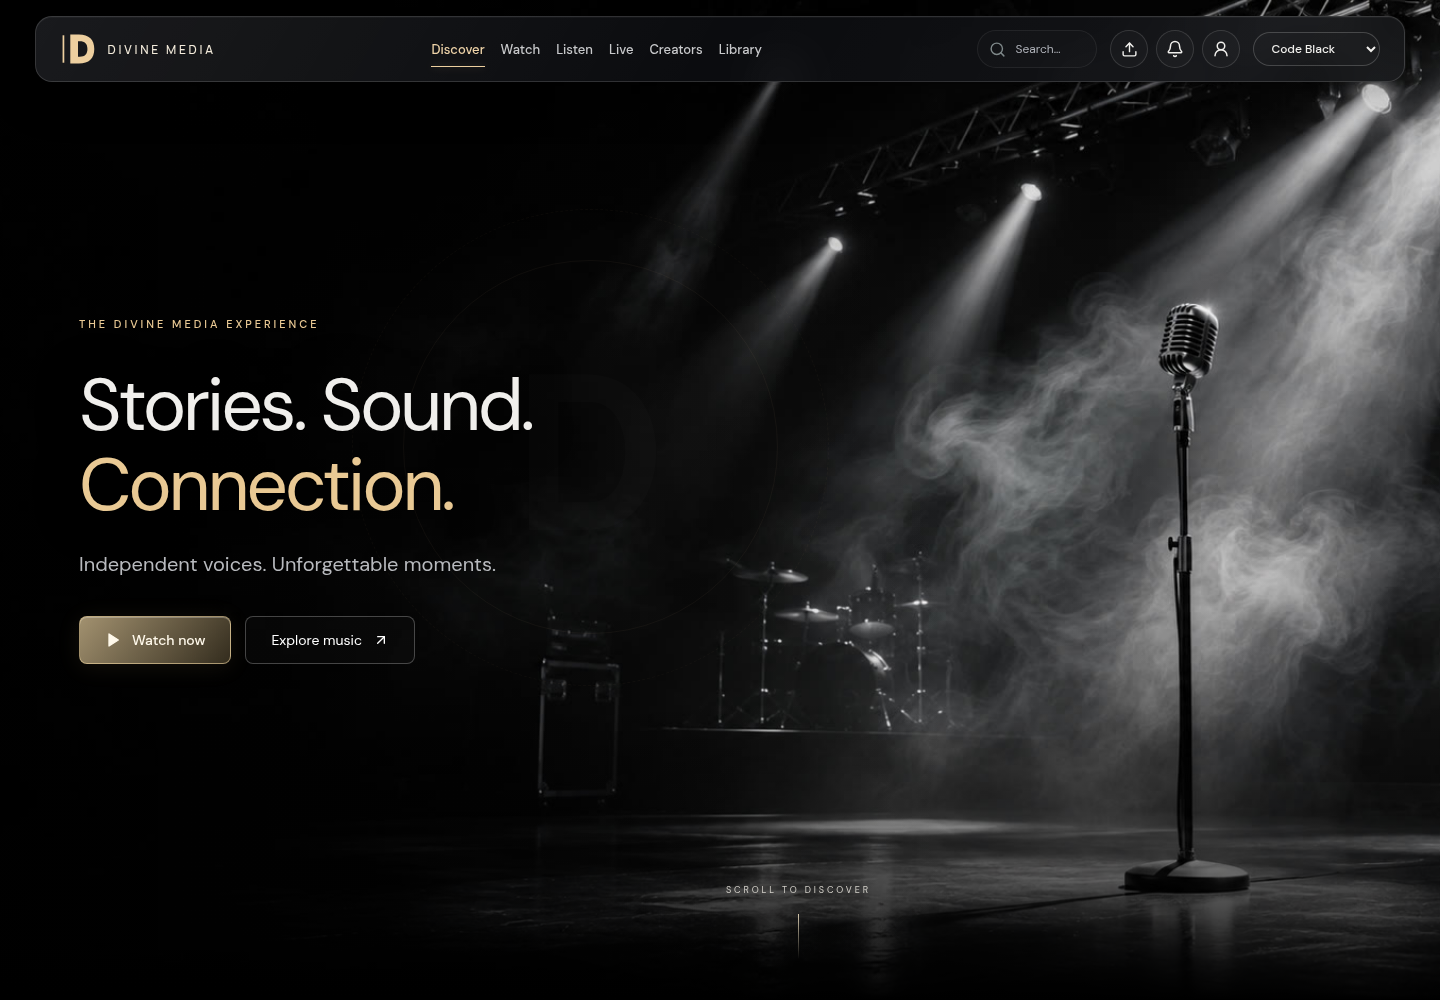
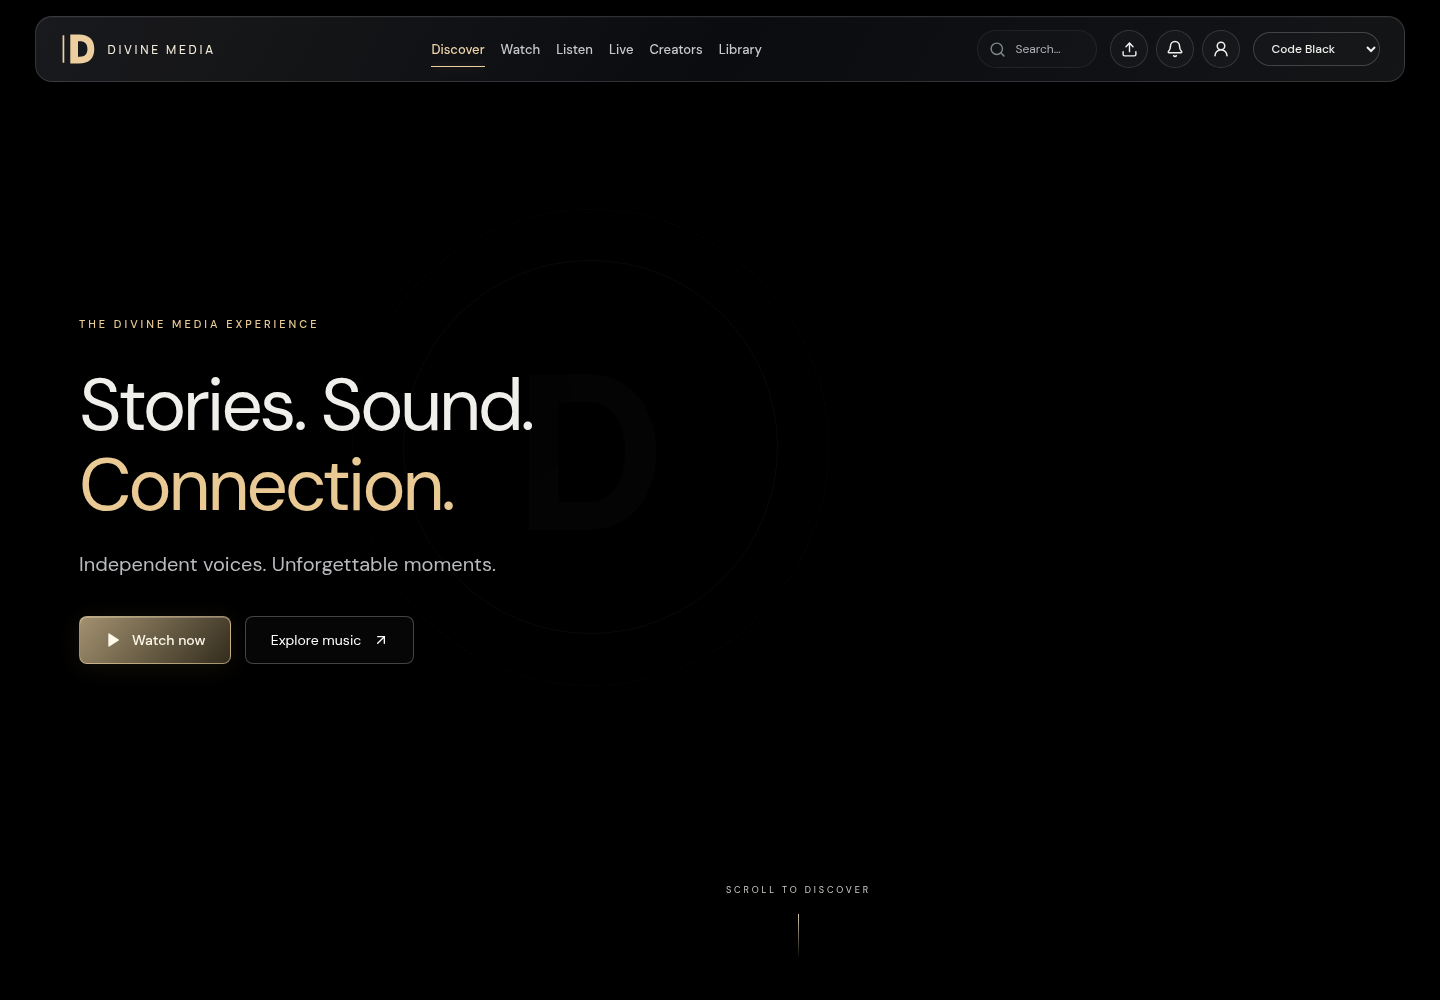
docs: record native feature preview and production release status

diff --git a/README.md b/README.md
@@ -91,7 +91,7 @@ See the [AVideo administrator manual](https://github.com/WWBN/AVideo/wiki/Admin-
 
 | Version / milestone | Status and scope |
 | --- | --- |
-| **3.3 — In development** | Branded entrance, matching login, shared creator workspace, audio discovery/player improvements, and the `divinemedia.us` domain structure are deployed from feature branches. Production-branch promotion remains a separate approval step; this is not a completed 3.3 release. |
+| **3.3 — Viewer foundation released** | Canonical domains, audio/player fixes, branded media entrance and creator workspace, plus selectable Default and Code Black viewing themes. Production promotion was approved and completed through PR #11. Broader native account/plugin integration continues separately in PR #12. |
 | **3.1 — Development baseline, November 1, 2026** | Established `dev/divine-media-3.1` from the existing Divine Media frontend work. Upload, thumbnail display, and playback were confirmed working as the baseline for the Watch redesign. |
 | **2.x — Earlier frontend foundation** | Existing Watch development on `divine-media-2`, carried forward into the 3.1 integration branch. |
 
@@ -103,6 +103,9 @@ Current work and implementation details:
 - [Branded entrance and login — PR #5](https://github.com/jarredmoore/divinemedia/pull/5)
 - [Creator workspace — PR #6](https://github.com/jarredmoore/divinemedia/pull/6)
 - [Canonical domains and integrated 3.3 foundation — PR #8](https://github.com/jarredmoore/divinemedia/pull/8)
+- [Code Black viewing theme — PR #10](https://github.com/jarredmoore/divinemedia/pull/10)
+- [Approved production release — PR #11](https://github.com/jarredmoore/divinemedia/pull/11)
+- [Native feature activation and free/paid plugin audit — PR #12](https://github.com/jarredmoore/divinemedia/pull/12)
 
 Project references on the integration branch: [Project charter](https://github.com/jarredmoore/divinemedia/blob/dev/divine-media-3.1/PROJECT.md), [experience direction](https://github.com/jarredmoore/divinemedia/blob/dev/divine-media-3.1/EXPERIENCE_DIRECTION.md), and [changelog](https://github.com/jarredmoore/divinemedia/blob/dev/divine-media-3.1/CHANGELOG.md). These documents describe their recorded baseline; the linked pull requests contain subsequent work.
 

diff --git a/docs/DIVINE-MEDIA-NATIVE-FEATURES.md b/docs/DIVINE-MEDIA-NATIVE-FEATURES.md
@@ -1,5 +1,9 @@
 # Native AVideo features and frontend activation
 
+[Open the working feature preview](https://6af0e7c0c7c99c2a27543abe--mediaproduction.netlify.app/?theme=code-black) · [Feature PR #12](https://github.com/jarredmoore/divinemedia/pull/12) · [Deployed browser evidence](NATIVE-FRONTEND-DEPLOYED-VERIFICATION.json)
+
+Frontend source for the draft is commit `f48a6cae`; later commits update documentation and evidence.
+
 ## Production release
 
 The owner explicitly approved production promotion in this session. PR #10 integrated Code Black into development; [PR #11](https://github.com/jarredmoore/divinemedia/pull/11) merged development into `production/divine-media` at `5067877dbd56bcd769812f42b46b15576848753f`. The previously tested Code Black draft `6aefc9b7bac75e020823b88a` is now the published Netlify deploy at https://divinemedia.us. The prior deploy `6aefae007b01dc9671e0b50f` remains the rollback reference. Both Default and Code Black remain selectable. Actual production playback and responsive checks passed; see [release](PRODUCTION-3.3-RELEASE.json) and [browser verification](PRODUCTION-3.3-BROWSER-VERIFICATION.json).
